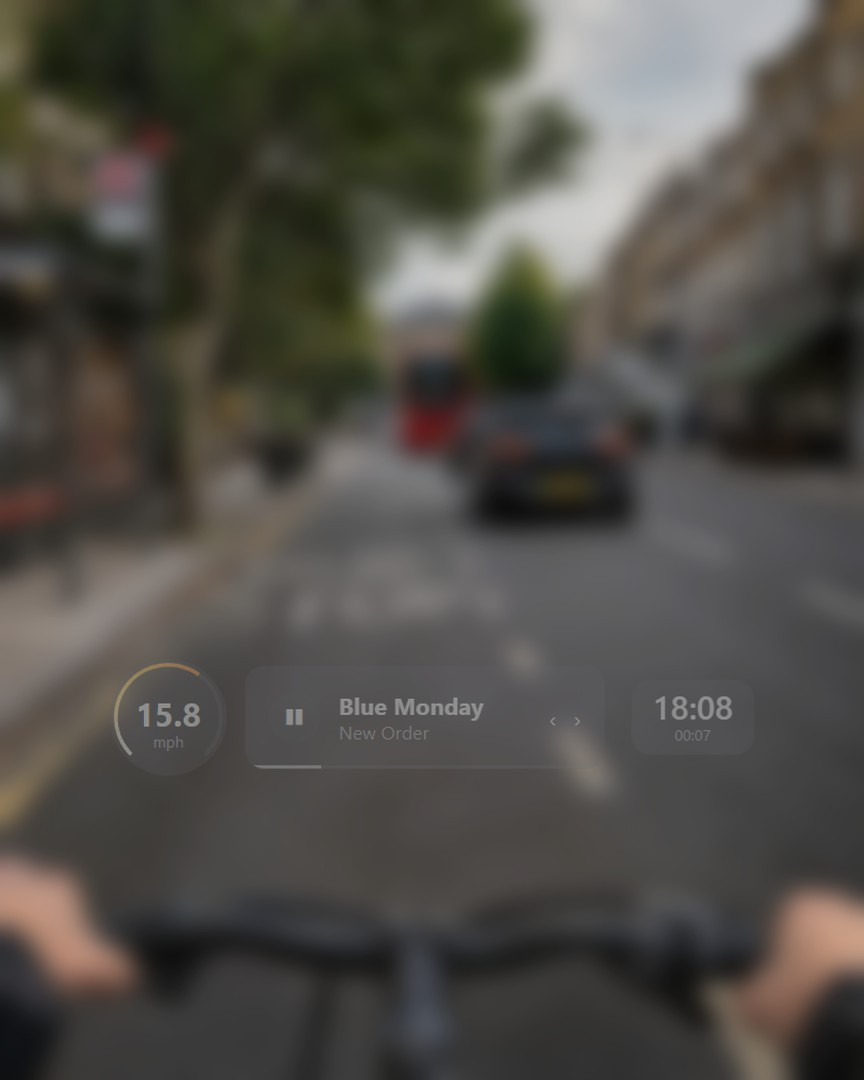
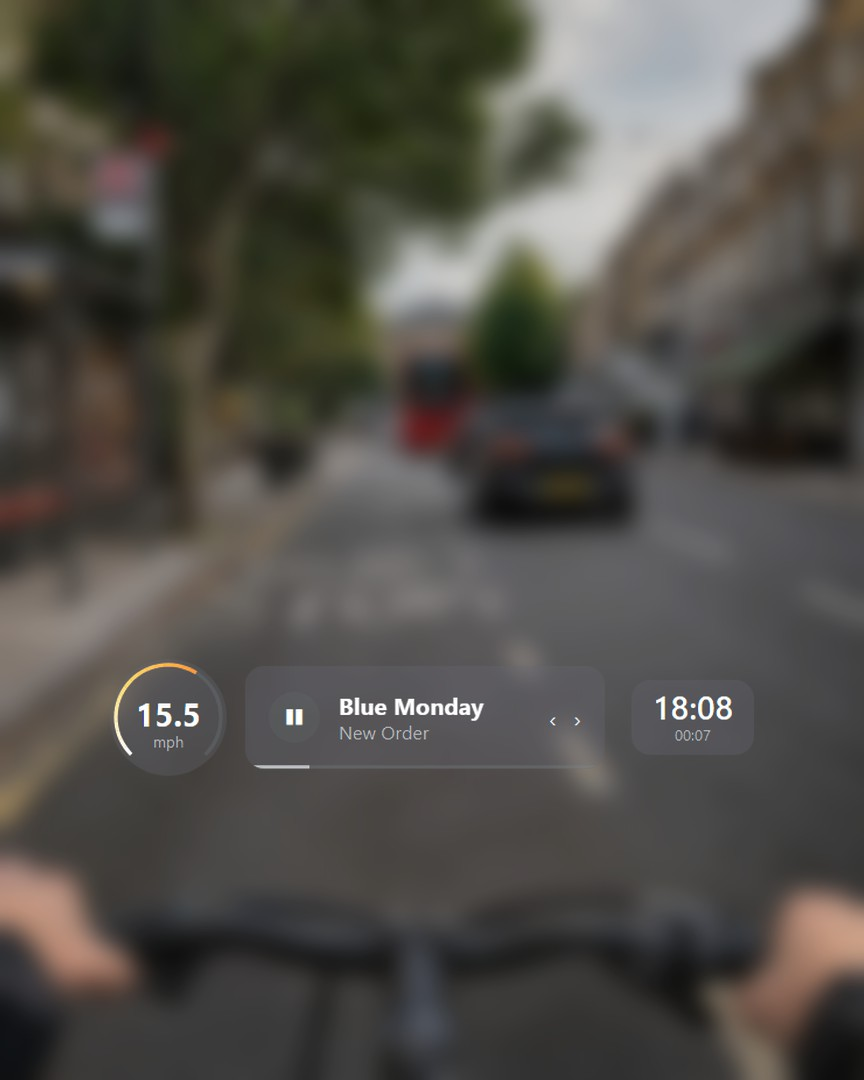
README: On the ride table one control per line, bright Glance View shot, menu shot with Pause / Stop Ride

diff --git a/README.md b/README.md
@@ -44,9 +44,9 @@ CycleHUD is a glanceable display, not a navigator, and it cannot see the road. K
 
 | Where | Controls |
 |---|---|
-| Map View / Glance View | **Select** switches between Map View and Glance View · **Up** toggles the zoom (Close / Wide) · **Down** opens the menu · **Left / Right** previous / next track · **Back** leaves the app |
-| Menu | **Pause / Stop Ride** · the player: previous, now playing (press for play / pause), next · **Map** Facing up / North up · **Zoom** Close / Wide · **Units** mph / km/h · **Glance View** Dimmed / Bright · **Audio** Auto / Spotify / Plex / None · **Pair phone** · **Status** |
-| Pause / Stop Ride | Ride time, average speed and distance (moving time only) with the player (**Left / Right** skip) · **Select** resumes · **Back** asks before you quit |
+| Map View / Glance View | **Select** switches between Map View and Glance View<br>**Up** toggles the zoom (Close / Wide)<br>**Down** opens the menu<br>**Left / Right** previous / next track<br>**Back** leaves the app |
+| Menu | **Pause / Stop Ride** (ride stats, pause and exit)<br>**Map** Facing up / North up<br>**Zoom** Close / Wide<br>**Units** mph / km/h<br>**Glance View** Dimmed / Bright<br>**Audio** Auto / Spotify / Plex / None (hides the media player)<br>**Pair phone**<br>**Status** (debug statistics and logs) |
+| Pause / Stop Ride | Ride time, average speed and distance (moving time only)<br>Media player (**Left / Right** skip)<br>**Select** resumes · **Back** asks before you quit |
 
 <table>
 <tr>
